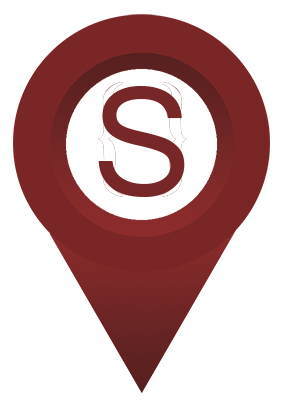
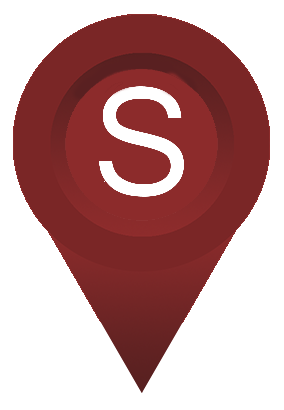
Add NewMarkers

diff --git a/client/src/components/LandingPage/LandingPage.js b/client/src/components/LandingPage/LandingPage.js
@@ -156,8 +156,8 @@ class LandingPage extends React.Component {
         key={i}
         latitude={mark.geometry.coordinates[1]}
         longitude={mark.geometry.coordinates[0]}
-        offsetTop={-30}
-        offsetLeft={-12.5}
+        offsetTop={-40}
+        offsetLeft={-15}
       >
         <ShowMarker
           className={role}
@@ -201,7 +201,8 @@ class LandingPage extends React.Component {
           <Popup
             latitude={geometry.coordinates[1]}
             longitude={geometry.coordinates[0]}
-            offsetTop={-20}
+            offsetTop={-30}
+            offsetLeft={-3}
             closeButton={false}
             closeOnClick={false}
           >
